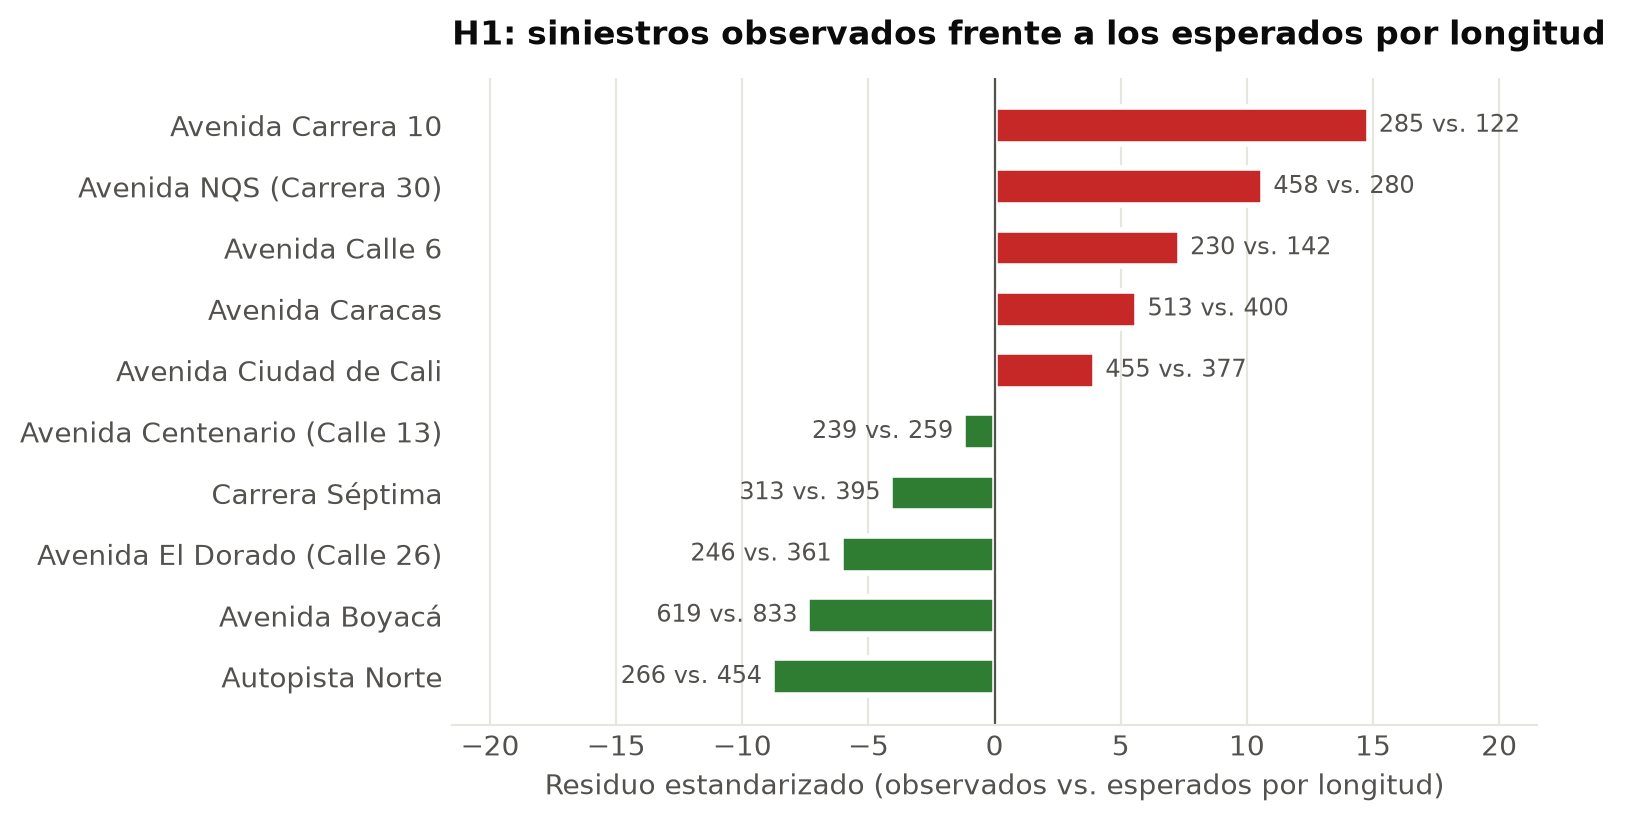
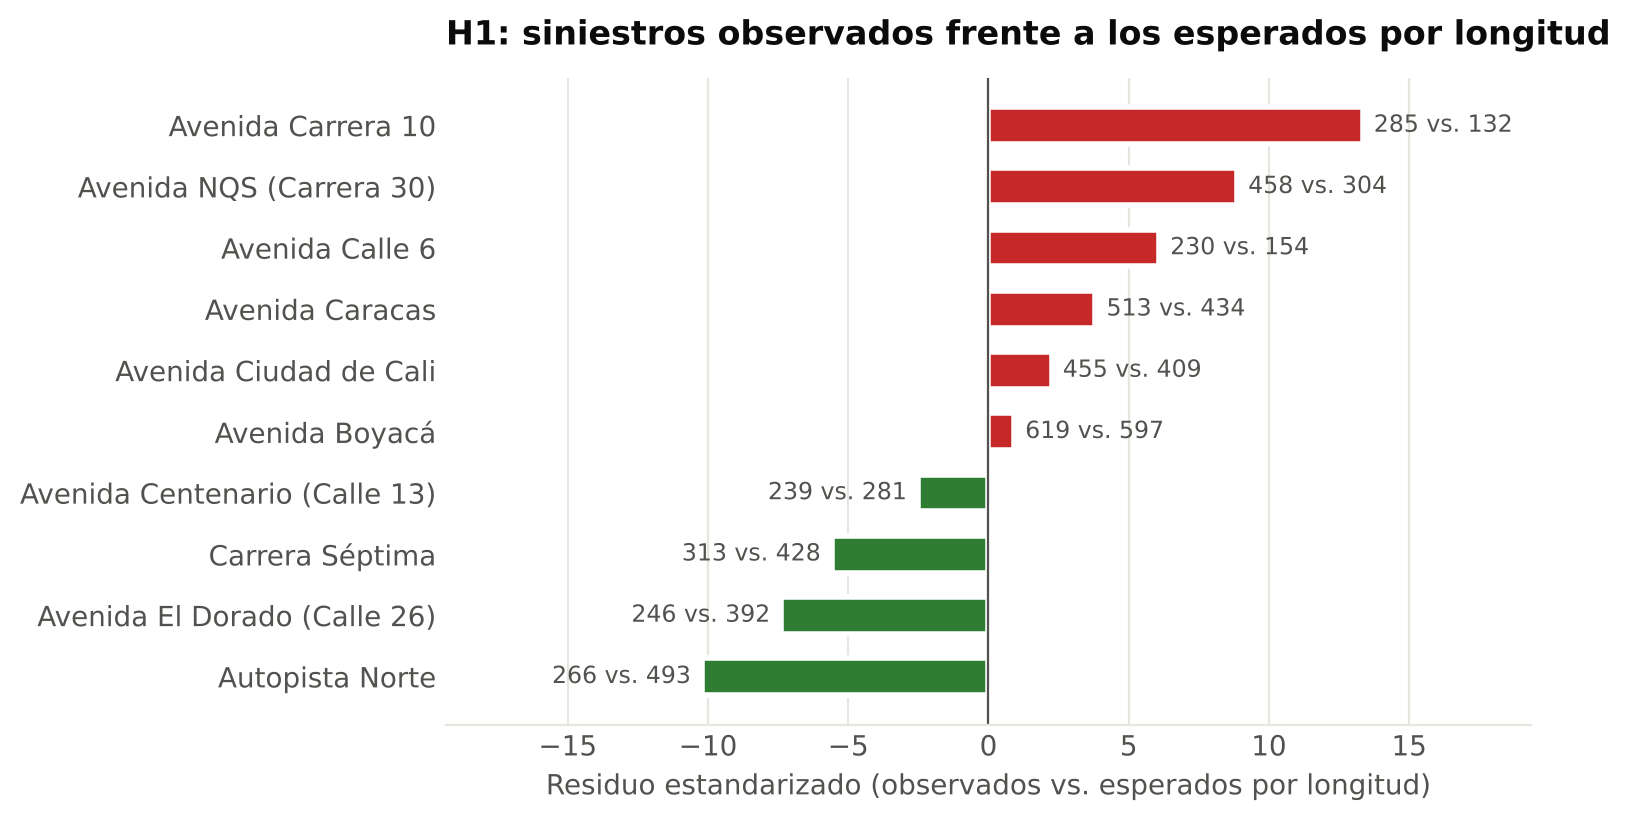
Boyacá con 34,4 km (Alcaldía): H1, tasas y figuras recalculadas; referencia de Dávila Hernández (2024)

diff --git a/docs/main.tex b/docs/main.tex
@@ -296,10 +296,10 @@ elementos; un valor mayor que 1 indica una asociación superior a la
 esperada). Una regla no demuestra que un factor cause el accidente;
 solo indica que una combinación ocurre con frecuencia en los registros.
 
-Culajay Sandoval (2025) ofrece un antecedente latinoamericano: en
-Guatemala aplica Apriori y FP-Growth, K-means y modelos supervisados
-sobre registros históricos, e identifica asociaciones entre hora, día y
-mes con la necesidad de hospitalización. Bejar Gladkowski (2023), por su
+\citet{davila2024} ofrece un antecedente latinoamericano: en
+Guatemala aplica Apriori, K-means y árboles de decisión a 10.722
+registros de accidentes de 2022, e identifica asociaciones entre la
+franja horaria y la hospitalización de las personas involucradas. Bejar Gladkowski (2023), por su
 parte, desarrolla un análisis predictivo de accidentes en Madrid. Ambos
 muestran que estas técnicas pueden extenderse a la predicción, una
 posibilidad que este proyecto deja como ampliación posterior.
@@ -789,7 +789,7 @@ apariciones, sin realizar una selección aleatoria.
 \textbf{Orden} & \textbf{Corredor} & \textbf{Apariciones} & \textbf{Longitud}\newline\textbf{(km)}\\
 \midrule
 \endhead
-1 & Avenida Boyacá & 637 & 52,1\\
+1 & Avenida Boyacá & 637 & 34,4\\
 2 & Avenida Caracas & 525 & 25,0\\
 3 & Avenida Ciudad de Cali & 470 & 23,6\\
 4 & Avenida NQS (Carrera 30) & 467 & 17,5\\
@@ -814,9 +814,12 @@ de la tabla \ref{tab:seleccion-corredores} no deben sumarse como eventos
 \ref{tab:distribucion-corredores}.
 
 Las longitudes se incorporaron del archivo de insumos externos del
-proyecto. Este registra OpenStreetMap como fuente para nueve corredores
+proyecto. Este registra OpenStreetMap como fuente para ocho corredores
 y Wikipedia para la Avenida Caracas, e incluye notas sobre los tramos
-considerados en Boyacá, Ciudad de Cali y Centenario. Se emplearon como
+considerados en Ciudad de Cali y Centenario. Para la Avenida Boyacá se
+usaron los 34,4 km de su troncal entre Yomasa y la Calle 170, según la
+\citet{alcaldiaboyaca}. La medición de OpenStreetMap (52,1 km) se
+descartó porque sumaba tramos con otro nombre oficial. Se emplearon como
 longitudes de referencia: no se realizó una nueva medición cartográfica
 ni una homologación de sus límites en esta etapa. Las tasas por kilómetro
 son sensibles a esa delimitación y no sustituyen una medida de exposición
@@ -921,7 +924,7 @@ asociaciones estadísticas ni relaciones causales.
 \textbf{Corredor} & \textbf{Eventos} & \textbf{\%} & \textbf{km} & \textbf{Por km}\\
 \midrule
 \endhead
-Avenida Boyacá & 619 & 17,08 & 52,1 & 11,88\\
+Avenida Boyacá & 619 & 17,08 & 34,4 & 17,99\\
 Avenida Caracas & 513 & 14,16 & 25,0 & 20,52\\
 Avenida NQS (Carrera 30) & 458 & 12,64 & 17,5 & 26,17\\
 Avenida Ciudad de Cali & 455 & 12,56 & 23,6 & 19,28\\
@@ -1213,7 +1216,7 @@ confianza bilateral del 95\,\% \citep{statsmodels}.
 \textbf{Prueba} & \textbf{Estadístico} & \textbf{p ajustado} & \textbf{Efecto} & \textbf{Decisión}\\
 \midrule
 \endhead
-H1 & $\chi^2=623{,}664$ & $6{,}97\times10^{-128}$ & $w=0{,}415$ & Rechazar $H_0$\\
+H1 & $\chi^2=510{,}000$ & $1{,}66\times10^{-103}$ & $w=0{,}375$ & Rechazar $H_0$\\
 H2a & $\chi^2=77{,}228$ & $7{,}06\times10^{-13}$ & $V=0{,}103$ & Rechazar $H_0$\\
 H2b & $\chi^2=32{,}211$ & $4{,}05\times10^{-7}$ & $V=0{,}094$ & Rechazar $H_0$\\
 H3 & $z=11{,}624$ & $6{,}19\times10^{-31}$ & $OR=4{,}257$ & Rechazar $H_0$\\
@@ -1221,14 +1224,15 @@ H3 & $z=11{,}624$ & $6{,}19\times10^{-31}$ & $OR=4{,}257$ & Rechazar $H_0$\\
 \end{longtable}
 \endgroup
 
-En H1, $\chi^2(9)=623{,}664$ permitió rechazar la proporcionalidad
-por longitud. Carrera 10 registró 285 eventos frente a 121,5 esperados;
-NQS, 458 frente a 279,9; y Calle 6, 230 frente a 142,3.
+En H1, $\chi^2(9)=510{,}000$ permitió rechazar la proporcionalidad
+por longitud. Carrera 10 registró 285 eventos frente a 131,8 esperados;
+NQS, 458 frente a 303,6; y Calle 6, 230 frente a 154,4.
 Sus residuos positivos indican un exceso respecto de ese modelo,
 no respecto de la cantidad de usuarios que circulan por cada vía.
-Boyacá tuvo el mayor volumen absoluto, pero menos eventos de los
-esperados al repartirlos solo por longitud: 619 frente a 833,2.
-El efecto $w=0{,}415$ describe la desviación global, sin equipararlo
+Boyacá tuvo el mayor volumen absoluto, pero un número cercano al
+esperado por su longitud: 619 frente a 596,8. Los mayores déficits
+correspondieron a Autopista Norte (266 frente a 492,7) y El Dorado
+(246 frente a 392,1). El efecto $w=0{,}375$ describe la desviación global, sin equipararlo
 a una probabilidad de accidente ni compararlo directamente con V.
 
 \begin{figure}[H]
@@ -1637,9 +1641,9 @@ riesgo operacional no puede inferirse únicamente de estos totales. Al ajustar
 por longitud, Carrera 10 obtuvo la mayor concentración descriptiva (37,50
 eventos por kilómetro), seguida por NQS (26,17) y Calle 6 (25,84). La
 hipótesis H1 confirmó que la distribución observada no es proporcional a la
-longitud de los corredores: $\chi^2(9)=623{,}664$, $p=6{,}97\times10^{-128}$
-y $w=0{,}415$. Los excesos de Carrera 10, NQS y Calle 6, y el déficit relativo
-de Boyacá, son consistentes con la concentración por kilómetro; no indican
+longitud de los corredores: $\chi^2(9)=510{,}000$, $p=1{,}66\times10^{-103}$
+y $w=0{,}375$. Los excesos de Carrera 10, NQS y Calle 6, y los déficits de
+Autopista Norte y El Dorado, son consistentes con la concentración por kilómetro; no indican
 por sí solos mayor probabilidad de siniestro para una persona que transita,
 dado que no se contó con aforos ni exposición vehicular.
 
@@ -1808,8 +1812,8 @@ muertos. La tabla \ref{tab:oe6-propuestas} las resume.
 
 \paragraph{1. Intervención en los cruces densos de las avenidas cortas.}
 La Carrera 10, la NQS y la Calle 6 tienen más siniestros de los que
-corresponden a su longitud: 285 frente a 121,5 esperados en la Carrera
-10, 458 frente a 279,9 en la NQS y 230 frente a 142,3 en la Calle 6. El
+corresponden a su longitud: 285 frente a 131,8 esperados en la Carrera
+10, 458 frente a 303,6 en la NQS y 230 frente a 154,4 en la Calle 6. El
 cruce de la Carrera 10 con Calle 1 es la zona más densa de la base, con
 73 siniestros, de los cuales el 11,0\,\% tuvo muertos. Se propone hacer
 auditorías de seguridad vial en las diez zonas densas que lista el
@@ -1894,6 +1898,10 @@ propuestas se cumple el entregable del sexto objetivo.
 
 \clearpage
 \begin{thebibliography}{99}
+\bibitem[Alcaldía Mayor de Bogotá(s.f.)]{alcaldiaboyaca}
+Alcaldía Mayor de Bogotá. (s.f.). Distrito licitará 28,7 kms. de 34,4 kms. de la troncal avenida Boyacá.
+\url{https://bogota.gov.co/mi-ciudad/obras/distrito-licitara-287-kms-de-344-kms-de-la-troncal-avenida-boyaca}
+
 \bibitem[Bejar Gladkowski(2023)]{bejar2023}
 Bejar Gladkowski, A. A. (2023). Análisis predictivo de accidentes de
   tráfico en la ciudad de Madrid {[}Trabajo de fin de grado, Universitat
@@ -1909,6 +1917,11 @@ Chand, A., Jayesh, S., \& Bhasi, A. B. (2021). Road traffic accidents:
 \bibitem[Cohen(1988)]{cohen1988}
 Cohen, J. (1988). \emph{Statistical power analysis for the behavioral sciences}
 (2.ª ed.). Lawrence Erlbaum Associates.
+
+\bibitem[Dávila Hernández(2024)]{davila2024}
+Dávila Hernández, E. E. (2024). Analysis of traffic accident data in Guatemala for the year 2022:
+Identification of patterns and event prediction [Artículo]. Universidad de San Carlos de Guatemala.
+\url{https://www.researchgate.net/publication/380073005}
 
 \bibitem[Ester et al.(1996)]{ester1996}
 Ester, M., Kriegel, H.-P., Sander, J., \& Xu, X. (1996).

diff --git a/README.md b/README.md
@@ -132,7 +132,7 @@ python -m streamlit run src/siniestralidad/app.py
 
 ## 🔎 Resultados principales
 
-- **H1:** los siniestros no se reparten según la longitud de los corredores (χ² = 623,7; w = 0,415). La Carrera 10, la NQS y la Calle 6 tienen muchos más de los esperados.
+- **H1:** los siniestros no se reparten según la longitud de los corredores (χ² = 510,0; w = 0,375). La Carrera 10, la NQS y la Calle 6 tienen muchos más de los esperados.
 - **H2:** la gravedad depende de la franja (V = 0,10) y del tipo de día (V = 0,09). Las noches de fin de semana tienen más siniestros con muertos (7,4 % frente a 5,2 %).
 - **H3:** con motocicleta, el 96 % de los siniestros tiene víctimas, frente al 85 % sin ella (razón de momios 4,26).
 - **Perfiles:** 7 perfiles con K-means; el de atropellos es el más grave (11,5 % con muertos). DBSCAN encuentra 62 zonas densas; la mayor es la Carrera 10 con Calle 1 (73 siniestros).
